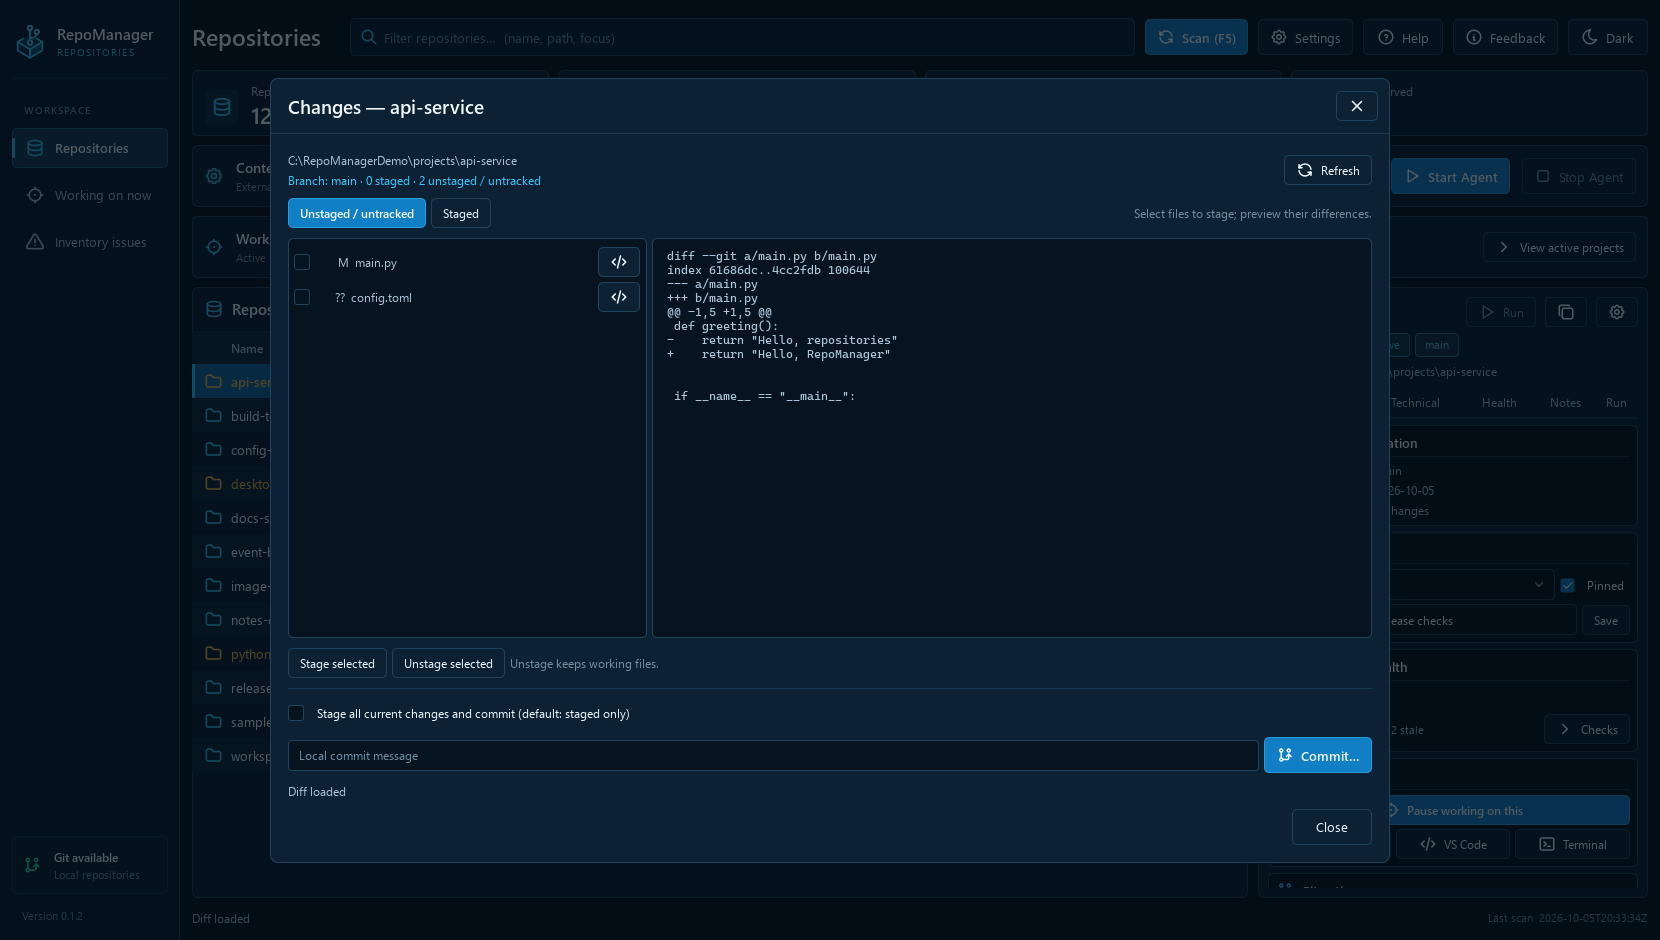
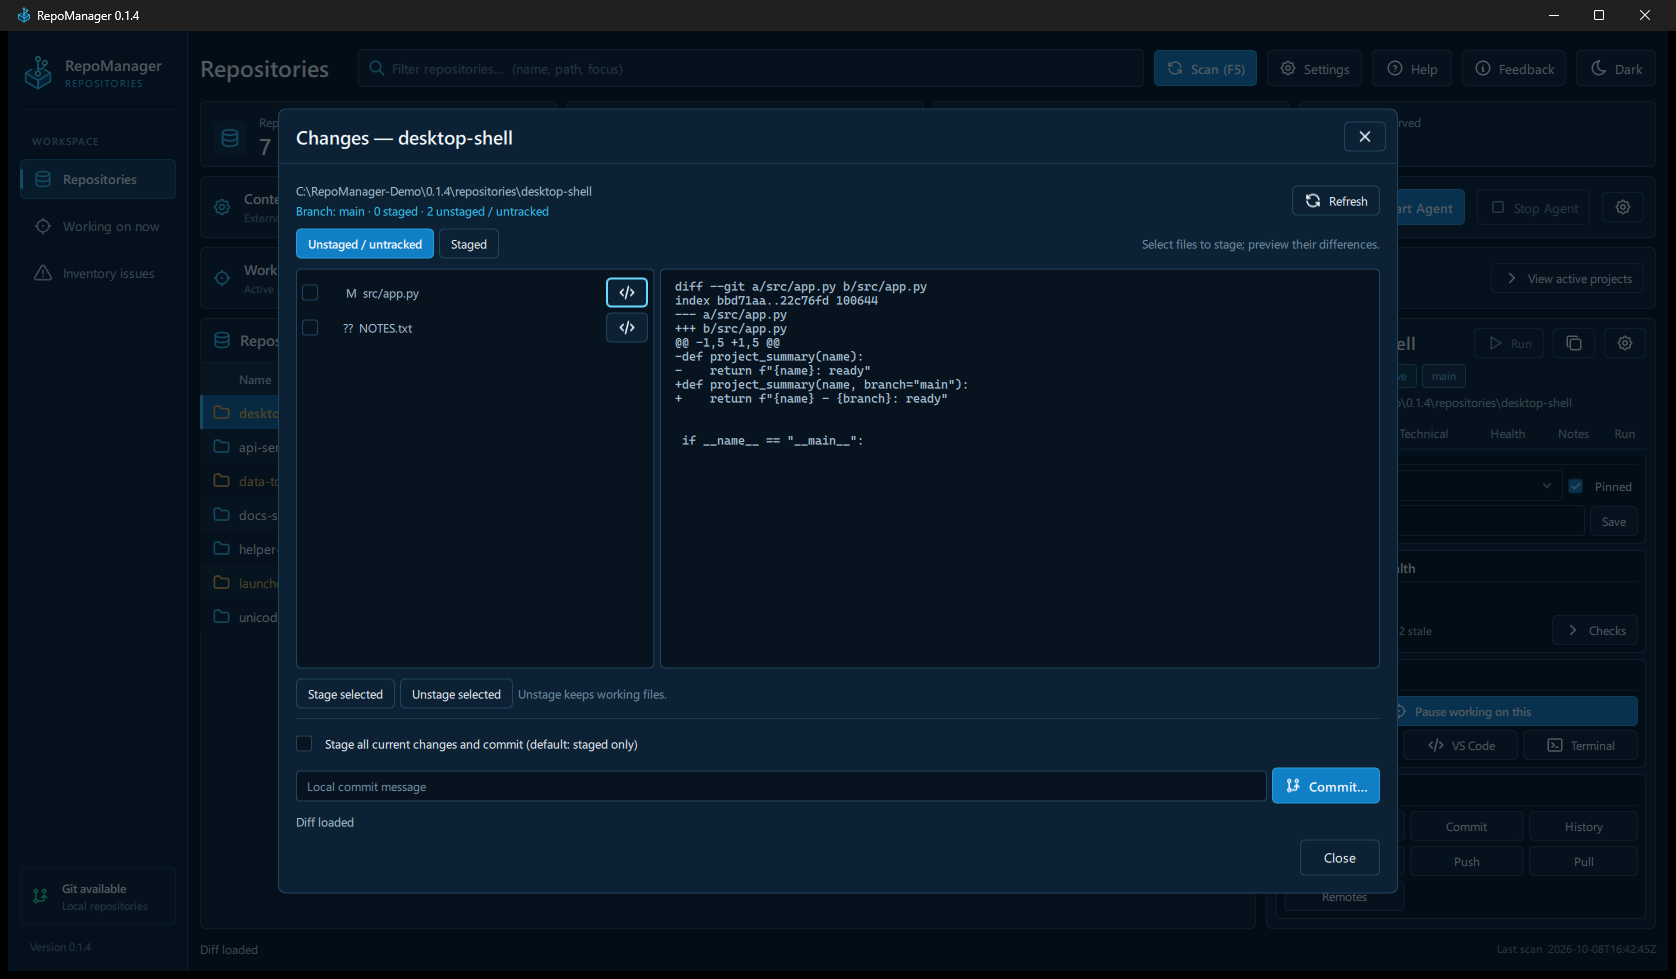
docs: refresh v0.1.4 screenshots

diff --git a/README.md b/README.md
@@ -19,9 +19,9 @@ your editor, terminal or Agent from one PySide6/QML interface.
 
 [![Latest stable release](https://img.shields.io/github/v/release/IcyShadow5/RepoManager?label=release&cacheSeconds=300)](https://github.com/IcyShadow5/RepoManager/releases/latest)
 
-![RepoManager 0.1.2 — repository inventory, working context and selected project details in Dark mode](assets/screenshots/overview-dark.png)
+![RepoManager 0.1.4 — repository inventory, working context and selected project details in Dark mode](assets/screenshots/overview-dark.png)
 
-*The screenshots show the v0.1.2 interface with controlled demo repositories.*
+*The screenshots show the released v0.1.4 application with controlled demo repositories.*
 
 Source version: **0.1.4**. The release badge and Download link identify the latest
 published build. See the [v0.1.4 release notes](docs/RELEASE_NOTES_0.1.4.md).
@@ -49,14 +49,14 @@ Dark and Light modes are available. More details are in the
 <details>
 <summary>Changes and diff preview</summary>
 
-![RepoManager 0.1.2 — actual Changes dialog with modified and untracked files and a selected diff](assets/screenshots/changes-dark.png)
+![RepoManager 0.1.4 — Changes dialog with modified and untracked files and a selected diff](assets/screenshots/changes-dark.png)
 
 </details>
 
 <details>
 <summary>Light mode</summary>
 
-![RepoManager 0.1.2 — repository inventory and selected details in Light mode](assets/screenshots/overview-light.png)
+![RepoManager 0.1.4 — repository inventory and selected details in Light mode](assets/screenshots/overview-light.png)
 
 </details>
 
